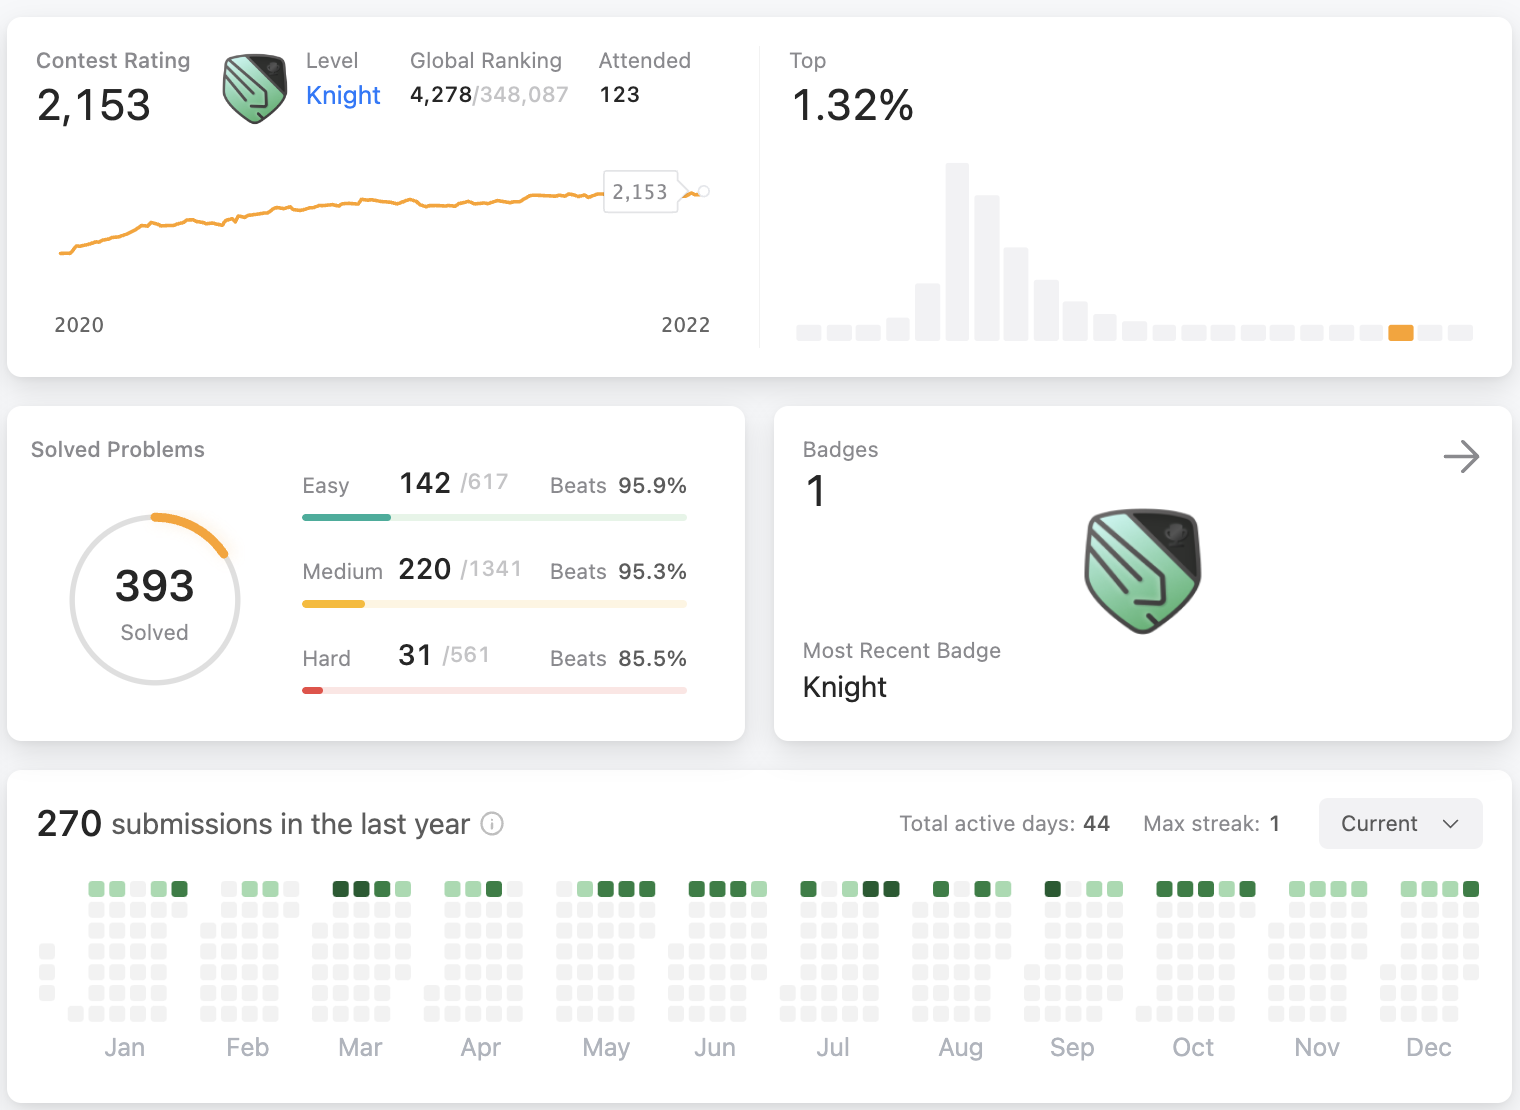
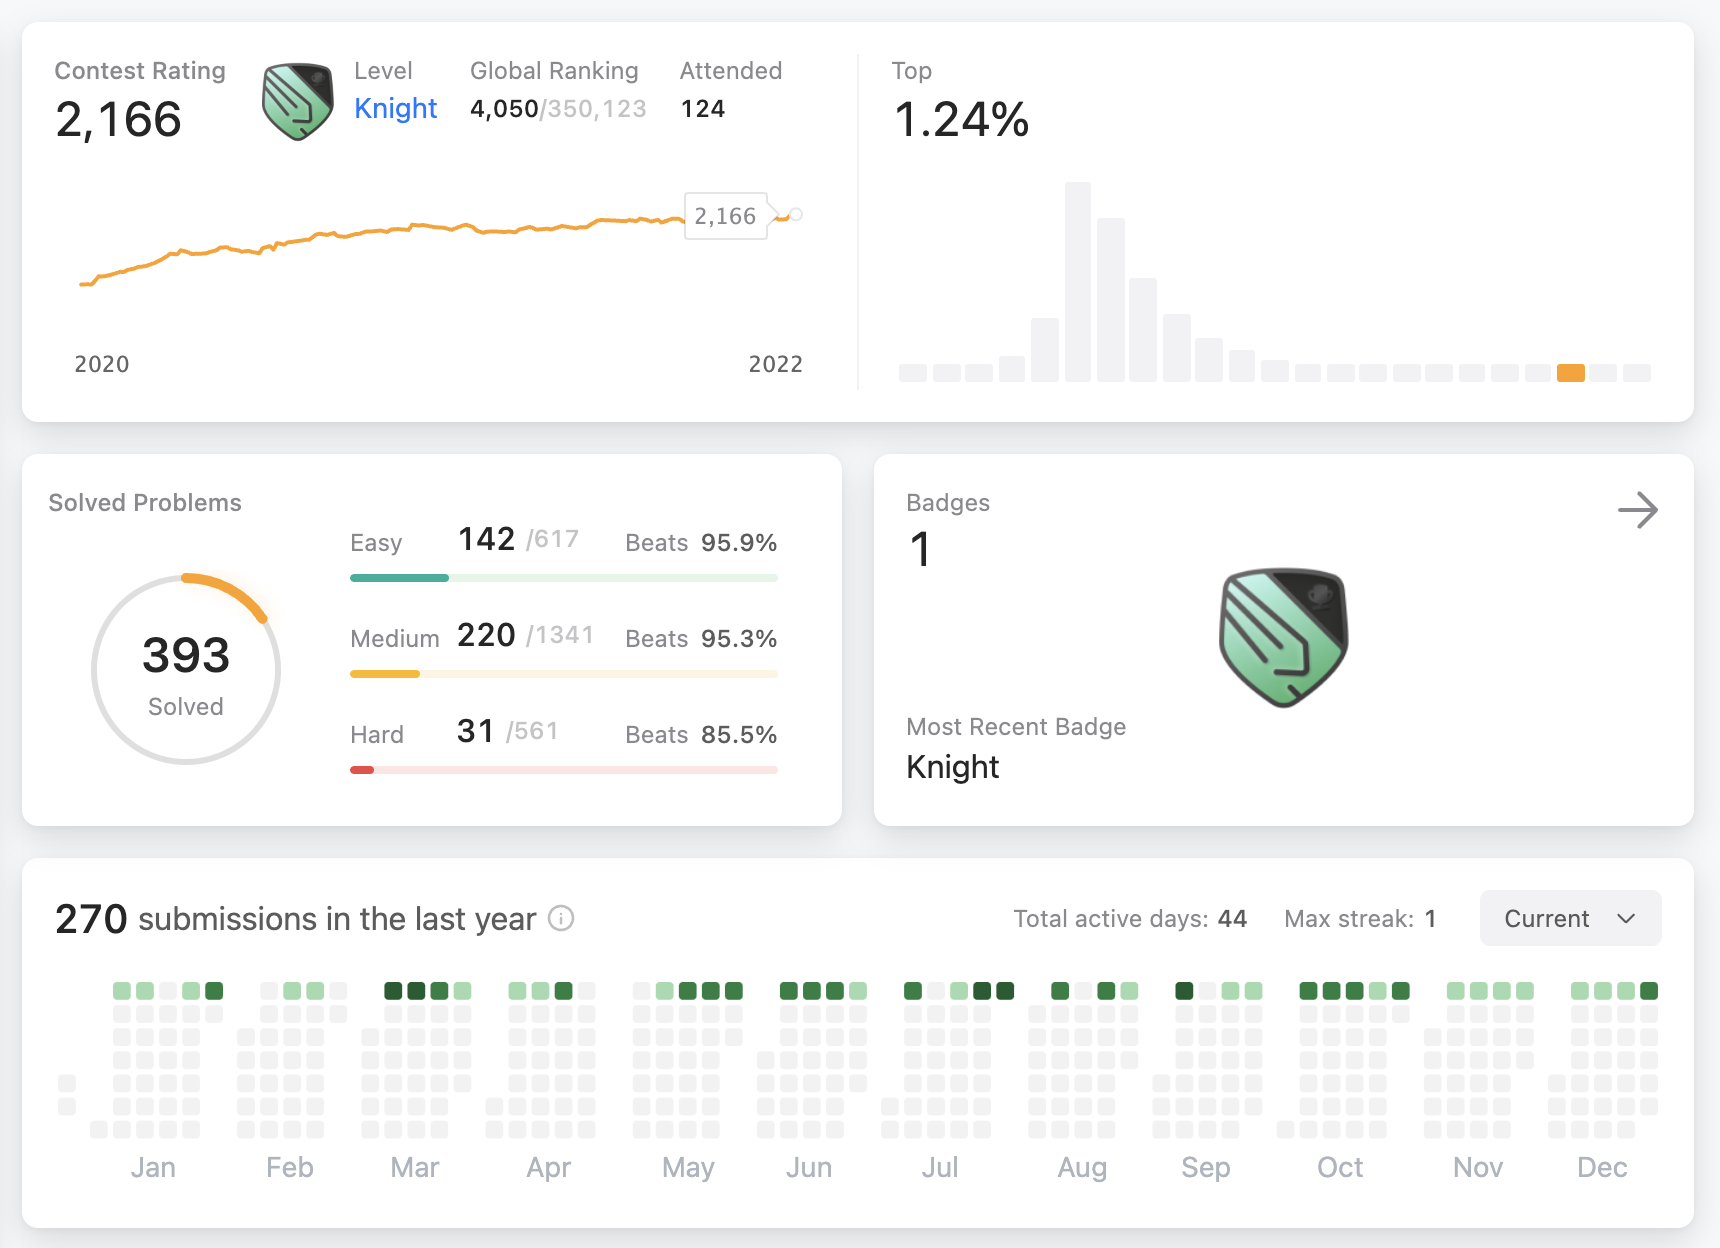
update screenshot

diff --git a/_posts/blogs/2022-12-28-LeetCodeWeeklyContestsJourney.md b/_posts/blogs/2022-12-28-LeetCodeWeeklyContestsJourney.md
@@ -26,17 +26,17 @@ That’s pretty much about my coding background before I started the Leetcode We
 
 The Leetcode story started in April 2020, when I was thinking about looking for a new job opportunity. It wasn’t because I was unhappy with my job back then, but I simply felt it was the time to try something new as someone early in the career. I was chatting with a friend who recently started a new position. He was a software engineer (so obviously he did not know much about DS interviews lol) and he said he did Leetcode Contest every week to practice coding skills. Honestly, I knew I would barely need to tackle any Leetcode algorithm questions in interviews based on my knowledge, and I myself was an interviewer from time to time. However, somehow I thought, well, maybe this was a good idea to practice Python as I was mainly using SQL in my job at that time, and it only took 90 minutes per week. So that’s how I started.  
 
-Not surprisingly, the first one was a total failure -- I spent 17 minutes finishing the first question (with two errors), then I could not solve the second one in the remaining 73 minutes. My rank for that contest was 5780 / 11688. Leetcode Contest also has this Contest Rating thing, which compares your contest performance against all the other participants and updates your culumative rating after each contest. It has a baseline of 1500 points, but after the first contest, my rating was down to 1480… That was very sad but somehow motivated me as I did not want to stop there and I wanted to prove myself.  
+Not surprisingly, the first one was a total failure -- I spent 17 minutes finishing the first question (with two errors), then I could not solve the second one in the remaining 73 minutes. My rank for that contest was 5780 / 11688. Leetcode Contest also has this Contest Rating thing, which compares your contest performance against all the other participants and updates your cumulative rating after each contest. It has a baseline of 1500 points, but after the first contest, my rating was down to 1480… That was very sad but somehow motivated me as I did not want to stop there and I wanted to prove myself.  
 
 ### My Leetcode Weekly Contests Journey  
 
-As I did not want to spend extra time grinding Leetcode (as I knew it was very unlikely to see those questions in my interviews), my strategy was to make the best use of the weekly contests. I kept abstracting the questions and googling during the contest, and after the contests end, I read the discussion forum and the solutions posted by other participants so I could always learn something. And this worked. Each contest has four questions -- usually one Easy, two Medium, and one Hard. After refreshing the basics like the Big O notation of common operations and algorithms, I was able to solve the first three questions in my fourth contest for the first time. The rating trend represents the learning curve pretty well. In the first year of participating in the contest, I was able to uplevel my contest rating from 1480 to 1954. After then, the progress became much slower as you can imagine, but I did not stop as it has become my Saturday night routine.   
+As I did not want to spend extra time grinding Leetcode (as I knew it was very unlikely to see those questions in my interviews), my strategy was to make the best use of the weekly contests. I kept abstracting the questions and googling during the contest, and after the contests end, I read the discussion forum and the solutions posted by other participants so I could always learn something. And this worked. Each contest has four questions -- usually one Easy, two Medium, and one Hard. After refreshing the basics like the Big O notation of common operations and algorithms, I was able to solve the first three questions in my fourth contest for the first time. The rating trend represents the learning curve pretty well. In the first year of participating in the contest, I was able to up-level my contest rating from 1480 to 1954. After then, the progress became much slower as you can imagine, but I did not stop as it has become my Saturday night routine.   
 
 <img src="https://yudong-94.github.io/personal-website/assets/images/Leetcode Screenshot 1.png" alt="LeetCode Summary" width="600" height="400">
-  
 
-Now after 124 contests, I usually have no problem solving the first three in 30-40 minutes, and with some luck, I can solve the fourth question occasionally (solved them 8 times in the most recent 20 contests). I have reached a rating of 2166, which is top 1.32% among all contest participants. And I have solved almost 400 questions, including 31 Hard. Skill wise, I remember one year ago, I was still struggling understanding many of the dynamic programming (DP) solutions in the discussion board, but now I can design my own DP solution during the contest. I am pretty confident in when I can use algorithms like binary search and techniques like two pointers. And in many cases, I am able to tell if a solution will get TLE (Time Limit Exceeded) given the data size and big O, before actually trying it out. So honestly I am pretty happy and proud of what I have achieved.  
-  
+
+Now after 124 contests, I usually have no problem solving the first three in 30-40 minutes, and with some luck, I can solve the fourth question occasionally (solved them 8 times in the most recent 20 contests). I have reached a rating of 2166, which is top 1.24% among all contest participants. And I have solved almost 400 questions, including 31 Hard. Skill wise, I remember one year ago, I was still struggling understanding many of the dynamic programming (DP) solutions in the discussion board, but now I can design my own DP solution during the contest. I am pretty confident in when I can use algorithms like binary search and techniques like two pointers. And in many cases, I am able to tell if a solution will get TLE (Time Limit Exceeded) given the data size and big O, before actually trying it out. So honestly I am pretty happy and proud of what I have achieved.  
+
 <img src="https://yudong-94.github.io/personal-website/assets/images/Leetcode Screenshot 2.png" alt="LeetCode Skills Section" width="250" height="500">
 
 ### Does It Help Anything?  
